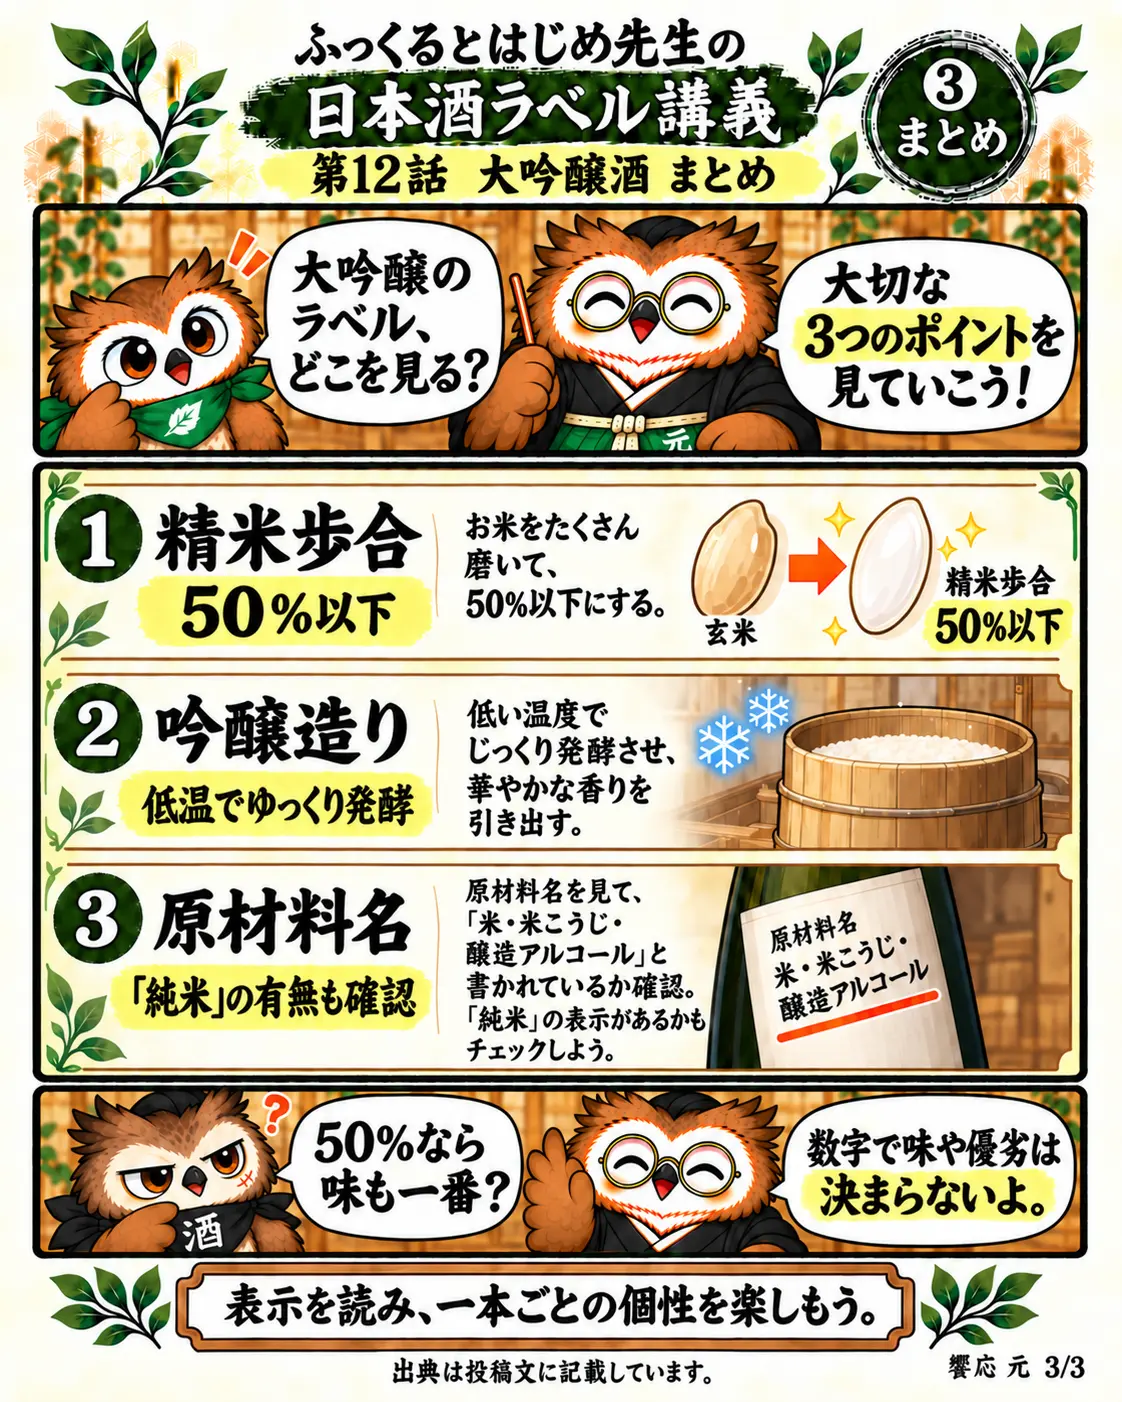
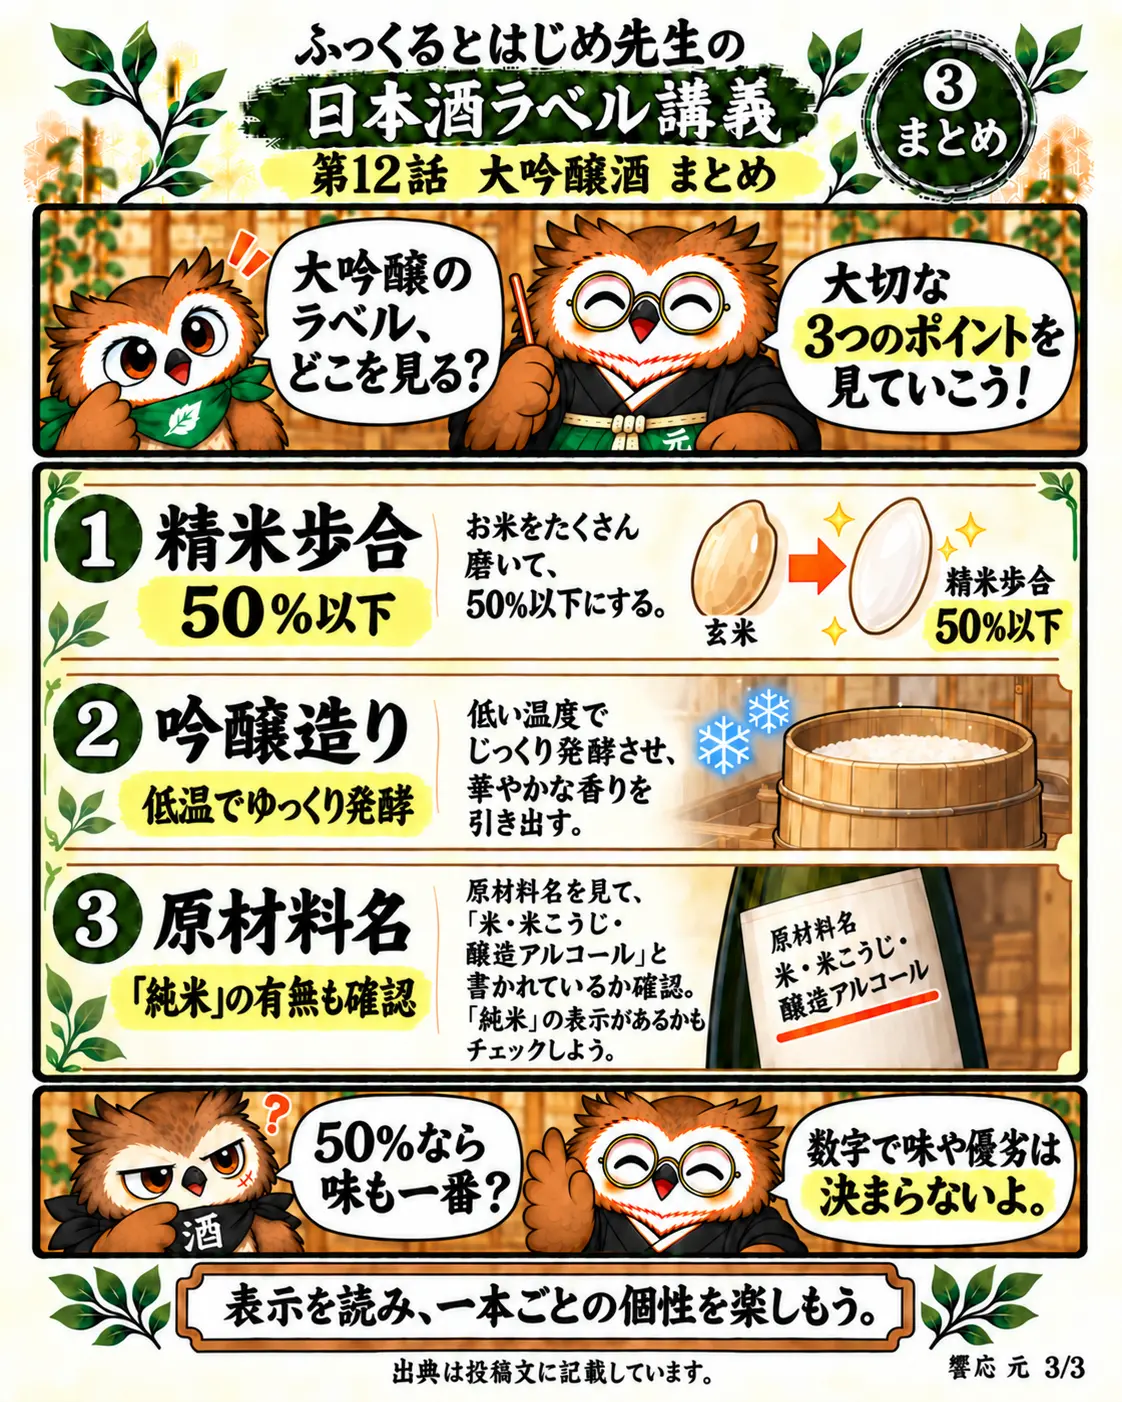
Correct episode 12 teacher character on page 3

diff --git a/manga.html b/manga.html
@@ -34,7 +34,7 @@
 <section class="chapter" id="junmai" aria-labelledby="junmai-title"><div class="chapter-head"><span>日本酒ラベル講義 · 第9話</span><h2 id="junmai-title">純米酒</h2><p>米・米こうじ・水で造り、醸造アルコールを使わない純米酒。前回の精米歩合とどう関係するのか、3枚で読みます。</p></div><div class="pages"><figure><a href="images/manga-junmai-1.webp?v=frame-20261016" aria-label="純米酒の漫画 1枚目を画像で開く"><img src="images/manga-junmai-1.webp?v=frame-20261016" alt="ふっくる、クロ、はじめ先生が純米酒の原料と醸造アルコールを加えないことを学ぶ4コマ漫画" width="1122" height="1402" loading="lazy"></a><figcaption>1 / 3　画像をタップすると大きく開けます</figcaption></figure><figure><a href="images/manga-junmai-2.webp?v=frame-20261016" aria-label="純米酒の漫画 2枚目を画像で開く"><img src="images/manga-junmai-2.webp?v=frame-20261016" alt="原材料名では水を省くこと、純米酒と純米吟醸酒の表示要件の違いを図解する漫画" width="1122" height="1402" loading="lazy"></a><figcaption>2 / 3　画像をタップすると大きく開けます</figcaption></figure><figure><a href="images/manga-junmai-3.webp?v=frame-20261016" aria-label="純米酒の漫画 3枚目を画像で開く"><img src="images/manga-junmai-3.webp?v=frame-20261016" alt="純米酒を材料・醸造アルコール・精米歩合の3点から確認し、味わいは商品ごとに異なるとまとめた漫画" width="1122" height="1402" loading="lazy"></a><figcaption>3 / 3　画像をタップすると大きく開けます</figcaption></figure></div><p class="chapter-source">「純米酒」は米・米こうじ・水を原料とし、醸造アルコールを使用しない特定名称です。純米酒自体に精米歩合の一律上限はありませんが、特定名称酒では原材料名の近くに精米歩合を表示します。味わいは商品ごとに異なります。参考（2026年10月16日確認）：<a href="https://www.gekkeikan.co.jp/enjoy/sake/type/type01.html" rel="noopener">月桂冠「吟醸、純米、本醸造とは、どのような酒ですか？」</a>、<a href="https://www.gekkeikan.co.jp/products/type02/junmai/" rel="noopener">月桂冠「純米」商品情報</a>、<a href="https://www.hakutsuru.co.jp/product/sake/maru/06434.html" rel="noopener">白鶴酒造「米だけのまる 純米酒」商品情報</a>、<a href="https://www.nta.go.jp/about/organization/sapporo/release/r4/kanpyokai/02.htm" rel="noopener">国税庁「清酒の製法品質表示基準（概要）」</a>、<a href="https://www.nta.go.jp/taxes/sake/hyoji/kijun/gaiyo/04.htm" rel="noopener">国税庁「酒類の表示の基準における重要基準を定める件」の概要</a>。</p><p class="back"><a href="#chapters">テーマ一覧へ戻る ↑</a></p></section>
 <section class="chapter" id="honjozo" aria-labelledby="honjozo-title"><div class="chapter-head"><span>日本酒ラベル講義 · 第10話</span><h2 id="honjozo-title">本醸造酒</h2><p>純米酒との違いは、原料として醸造アルコールを使うこと。本醸造酒の精米歩合と使用量の条件を3枚で読みます。</p></div><div class="pages"><figure><a href="images/manga-honjozo-1.webp" aria-label="本醸造酒の漫画 1枚目を画像で開く"><img src="images/manga-honjozo-1.webp" alt="ふっくる、クロ、はじめ先生が本醸造酒に使う原料と醸造アルコールの量を学ぶ4コマ漫画" width="1122" height="1402" loading="lazy"></a><figcaption>1 / 3　画像をタップすると大きく開けます</figcaption></figure><figure><a href="images/manga-honjozo-2.webp" aria-label="本醸造酒の漫画 2枚目を画像で開く"><img src="images/manga-honjozo-2.webp" alt="純米酒との違い、本醸造酒の精米歩合70％以下と醸造アルコールの添加量条件を図解する漫画" width="1122" height="1402" loading="lazy"></a><figcaption>2 / 3　画像をタップすると大きく開けます</figcaption></figure><figure><a href="images/manga-honjozo-3.webp" aria-label="本醸造酒の漫画 3枚目を画像で開く"><img src="images/manga-honjozo-3.webp" alt="本醸造酒の原料、精米歩合、添加量の3点と原材料名の読み方をまとめた漫画" width="1122" height="1402" loading="lazy"></a><figcaption>3 / 3　画像をタップすると大きく開けます</figcaption></figure></div><p class="chapter-source">本醸造酒は米・米こうじ・水・醸造アルコールを原料とし、精米歩合70％以下などの表示条件があります。醸造アルコールの使用量は、アルコール分95度換算の重量で白米重量の10％以下。これは完成したお酒のアルコール濃度ではありません。味わいは商品ごとに異なります。参考（2026年10月17日確認）：<a href="https://www.gekkeikan.co.jp/enjoy/sake/type/type01.html" rel="noopener">月桂冠「吟醸、純米、本醸造とは、どのような酒ですか？」</a>、<a href="https://www.hakutsuru.co.jp/enjoy/detail/20210712215330.html" rel="noopener">白鶴酒造「日本酒用語集」</a>、<a href="https://www.hakutsuru.co.jp/product/sake/josen/00014.html" rel="noopener">白鶴酒造「特撰 白鶴 飛翔」</a>、<a href="https://www.nta.go.jp/taxes/sake/hyoji/kijun/gaiyo/04.htm" rel="noopener">国税庁「酒類の表示の基準における重要基準を定める件」の概要</a>。</p><p class="back"><a href="#chapters">テーマ一覧へ戻る ↑</a></p></section>
 <section class="chapter" id="ginjo" aria-labelledby="ginjo-title"><div class="chapter-head"><span>日本酒ラベル講義 · 第11話</span><h2 id="ginjo-title">吟醸酒</h2><p>「吟醸」は香りの名前ではなく、米の精米歩合と吟醸造りなどの条件がある表示。純米吟醸酒との原材料名の違いも3枚で読みます。</p></div><div class="pages"><figure><a href="images/manga-ginjo-1.webp" aria-label="吟醸酒の漫画 1枚目を画像で開く"><img src="images/manga-ginjo-1.webp" alt="ふっくる、クロ、はじめ先生が精米歩合60％以下と低温でゆっくり発酵させる吟醸造りを学ぶ4コマ漫画" width="1122" height="1402" loading="lazy"></a><figcaption>1 / 3　画像をタップすると大きく開けます</figcaption></figure><figure><a href="images/manga-ginjo-2.webp" aria-label="吟醸酒の漫画 2枚目を画像で開く"><img src="images/manga-ginjo-2.webp" alt="吟醸酒の精米歩合と吟醸造りを図解し、吟醸酒と純米吟醸酒の原材料名を比較する漫画" width="1122" height="1402" loading="lazy"></a><figcaption>2 / 3　画像をタップすると大きく開けます</figcaption></figure><figure><a href="images/manga-ginjo-3.webp" aria-label="吟醸酒の漫画 3枚目を画像で開く"><img src="images/manga-ginjo-3.webp" alt="吟醸酒の精米歩合、吟醸造り、醸造アルコールの有無をラベルで確認する3点まとめの漫画" width="1122" height="1402" loading="lazy"></a><figcaption>3 / 3　画像をタップすると大きく開けます</figcaption></figure></div><p class="chapter-source">吟醸酒は精米歩合60％以下の米を用い、低温でゆっくり発酵させるなどの吟醸造りにより製造する特定名称の清酒です。純米吟醸酒は醸造アルコールを加えず、原材料名で区別できます。低温発酵の具体的な温度や日数を一律の基準とするものではなく、味わいも商品ごとに異なります。参考（2026年10月18日確認）：<a href="https://www.gekkeikan.co.jp/enjoy/sake/type/type01.html" rel="noopener">月桂冠「吟醸、純米、本醸造とは、どのような酒ですか？」</a>、<a href="https://www.hakutsuru.co.jp/enjoy/detail/20210712215330.html" rel="noopener">白鶴酒造「日本酒用語集」</a>、<a href="https://www.hakutsuru.co.jp/product/sake/yamadanishiki/03898.html" rel="noopener">白鶴酒造「特撰 白鶴 純米吟醸 山田錦」</a>、<a href="https://www.nta.go.jp/taxes/sake/hyoji/kijun/gaiyo/04.htm" rel="noopener">国税庁「酒類の表示の基準における重要基準を定める件」の概要</a>。</p><p class="back"><a href="#chapters">テーマ一覧へ戻る ↑</a></p></section>
-<section class="chapter" id="daiginjo" aria-labelledby="daiginjo-title"><div class="chapter-head"><span>日本酒ラベル講義 · 第12話</span><h2 id="daiginjo-title">大吟醸酒</h2><p>吟醸酒との精米歩合の表示条件を比べ、吟醸造りと原材料名を確認。純米大吟醸酒との違いも3枚で読みます。</p></div><div class="pages"><figure><a href="images/manga-daiginjo-1.webp" aria-label="大吟醸酒の漫画 1枚目を画像で開く"><img src="images/manga-daiginjo-1.webp" alt="ふっくる、クロ、はじめ先生が大吟醸酒の精米歩合50％以下と吟醸造りを学ぶ4コマ漫画" width="1122" height="1402" loading="lazy"></a><figcaption>1 / 3　画像をタップすると大きく開けます</figcaption></figure><figure><a href="images/manga-daiginjo-2.webp" aria-label="大吟醸酒の漫画 2枚目を画像で開く"><img src="images/manga-daiginjo-2.webp" alt="吟醸酒の精米歩合60％以下と大吟醸酒の50％以下を比較し、大吟醸酒と純米大吟醸酒の原材料名も示す漫画" width="1122" height="1402" loading="lazy"></a><figcaption>2 / 3　画像をタップすると大きく開けます</figcaption></figure><figure><a href="images/manga-daiginjo-3.webp" aria-label="大吟醸酒の漫画 3枚目を画像で開く"><img src="images/manga-daiginjo-3.webp" alt="大吟醸酒の精米歩合、吟醸造り、原材料名の3点と味や優劣は数字だけでは決まらないことをまとめた漫画" width="1122" height="1402" loading="lazy"></a><figcaption>3 / 3　画像をタップすると大きく開けます</figcaption></figure></div><p class="chapter-source">大吟醸酒は、吟醸酒のうち精米歩合50％以下の白米を原料とし、固有の香味と色沢が特に良好なものに用いる特定名称です。精米歩合だけで表示は決まりません。純米大吟醸酒は米・米こうじ・水のみを原料とし、醸造アルコールを使いません。月桂冠「大吟醸」と白鶴「大吟醸」は、いずれも醸造アルコールを用いた商品例で、個別の商品特性を一般論とはしません。参考（2026年10月19日確認）：<a href="https://www.gekkeikan.co.jp/enjoy/sake/type/type01.html" rel="noopener">月桂冠「吟醸、純米、本醸造とは、どのような酒ですか？」</a>、<a href="https://www.gekkeikan.co.jp/products/type01/daiginjo_pack/" rel="noopener">月桂冠「大吟醸」</a>、<a href="https://www.hakutsuru.co.jp/product/sake/daiginjo/06298.html" rel="noopener">白鶴酒造「白鶴 大吟醸」</a>、<a href="https://www.hakutsuru.co.jp/product/sake/daiginjo/06552.html" rel="noopener">白鶴酒造「白鶴 純米大吟醸」</a>、<a href="https://www.nta.go.jp/taxes/sake/hyoji/kijun/gaiyo/04.htm" rel="noopener">国税庁「酒類の表示の基準における重要基準を定める件」の概要</a>。</p><p class="back"><a href="#chapters">テーマ一覧へ戻る ↑</a></p></section>
+<section class="chapter" id="daiginjo" aria-labelledby="daiginjo-title"><div class="chapter-head"><span>日本酒ラベル講義 · 第12話</span><h2 id="daiginjo-title">大吟醸酒</h2><p>吟醸酒との精米歩合の表示条件を比べ、吟醸造りと原材料名を確認。純米大吟醸酒との違いも3枚で読みます。</p></div><div class="pages"><figure><a href="images/manga-daiginjo-1.webp" aria-label="大吟醸酒の漫画 1枚目を画像で開く"><img src="images/manga-daiginjo-1.webp" alt="ふっくる、クロ、はじめ先生が大吟醸酒の精米歩合50％以下と吟醸造りを学ぶ4コマ漫画" width="1122" height="1402" loading="lazy"></a><figcaption>1 / 3　画像をタップすると大きく開けます</figcaption></figure><figure><a href="images/manga-daiginjo-2.webp" aria-label="大吟醸酒の漫画 2枚目を画像で開く"><img src="images/manga-daiginjo-2.webp" alt="吟醸酒の精米歩合60％以下と大吟醸酒の50％以下を比較し、大吟醸酒と純米大吟醸酒の原材料名も示す漫画" width="1122" height="1402" loading="lazy"></a><figcaption>2 / 3　画像をタップすると大きく開けます</figcaption></figure><figure><a href="images/manga-daiginjo-3.webp?v=charfix-20261019" aria-label="大吟醸酒の漫画 3枚目を画像で開く"><img src="images/manga-daiginjo-3.webp?v=charfix-20261019" alt="大吟醸酒の精米歩合、吟醸造り、原材料名の3点と味や優劣は数字だけでは決まらないことをまとめた漫画" width="1122" height="1402" loading="lazy"></a><figcaption>3 / 3　画像をタップすると大きく開けます</figcaption></figure></div><p class="chapter-source">大吟醸酒は、吟醸酒のうち精米歩合50％以下の白米を原料とし、固有の香味と色沢が特に良好なものに用いる特定名称です。精米歩合だけで表示は決まりません。純米大吟醸酒は米・米こうじ・水のみを原料とし、醸造アルコールを使いません。月桂冠「大吟醸」と白鶴「大吟醸」は、いずれも醸造アルコールを用いた商品例で、個別の商品特性を一般論とはしません。参考（2026年10月19日確認）：<a href="https://www.gekkeikan.co.jp/enjoy/sake/type/type01.html" rel="noopener">月桂冠「吟醸、純米、本醸造とは、どのような酒ですか？」</a>、<a href="https://www.gekkeikan.co.jp/products/type01/daiginjo_pack/" rel="noopener">月桂冠「大吟醸」</a>、<a href="https://www.hakutsuru.co.jp/product/sake/daiginjo/06298.html" rel="noopener">白鶴酒造「白鶴 大吟醸」</a>、<a href="https://www.hakutsuru.co.jp/product/sake/daiginjo/06552.html" rel="noopener">白鶴酒造「白鶴 純米大吟醸」</a>、<a href="https://www.nta.go.jp/taxes/sake/hyoji/kijun/gaiyo/04.htm" rel="noopener">国税庁「酒類の表示の基準における重要基準を定める件」の概要</a>。</p><p class="back"><a href="#chapters">テーマ一覧へ戻る ↑</a></p></section>
 <div class="manga-footer"><p>漫画は日本酒の言葉を知るための読みものです。個別の商品については、ボトルの表示や蔵元の案内もご確認ください。</p><p><a href="marutamachi-sake.html">饗応 元での日本酒の楽しみ方を見る →</a></p><p><a href=".">トップへ戻る →</a></p></div>
 </main>
 </body>

diff --git a/SEARCH_CHANGELOG.md b/SEARCH_CHANGELOG.md
@@ -3,6 +3,7 @@
 - 検品：3枚目の初稿に「純米」と醸造アルコールの矛盾があったため「純米」札を除き、ふっくるに混じった原本にない黒い飾りを各ページで修正。3枚の見出し・横長コマ・右下店名、眼鏡・スカーフ・傷、主要な日本語、精米歩合50％以下・吟醸造り・原材料の対比を目視確認。味や優劣を数字のみで断定せず、公式ロゴなし。
 - 出典（2026-10-19確認）：月桂冠「吟醸、純米、本醸造とは、どのような酒ですか？」 https://www.gekkeikan.co.jp/enjoy/sake/type/type01.html ／月桂冠「大吟醸」 https://www.gekkeikan.co.jp/products/type01/daiginjo_pack/ ／白鶴酒造「白鶴 大吟醸」 https://www.hakutsuru.co.jp/product/sake/daiginjo/06298.html ／白鶴酒造「白鶴 純米大吟醸」 https://www.hakutsuru.co.jp/product/sake/daiginjo/06552.html ／国税庁「酒類の表示の基準における重要基準を定める件」の概要 https://www.nta.go.jp/taxes/sake/hyoji/kijun/gaiyo/04.htm 。
 - 差分：images/manga-daiginjo-{1,2,3}.webp を追加。manga.htmlの一覧・第12話3枚・alt・出典・メタ情報を更新。トップとブログの既存漫画導線を確認し変更なし。CSPの自己ホスト画像設定に適合。SNS投稿なし。
+- 追検品と差し替え：公開後、3枚目のはじめ先生の頭に原本にない黒い飾りが残っていたため、キャラ原本を直接使い3枚目だけ再編集。文字・ラベル・枠組みを保持して画像を更新し、manga.htmlの3枚目URLにキャッシュ識別子を付与した。再公開と画像読込は以下に追記。
 - GitHub掲載コミット：e00c6777c9455d3c64688715c285da02f545a4e6。GitHub Pagesの公開ワークフロー成功。公開 https://kyouou-hajime.github.io/manga.html#daiginjo に第12話・出典・3枚を確認。images/manga-daiginjo-{1,2,3}.webp は3枚とも1122×1402で読み込み成功。検索エンジン再取得は未確認。
 
 ### 2026-10-19 お知らせページの旧業態表現を修正（GitHub反映済み・公開確認待ち）
